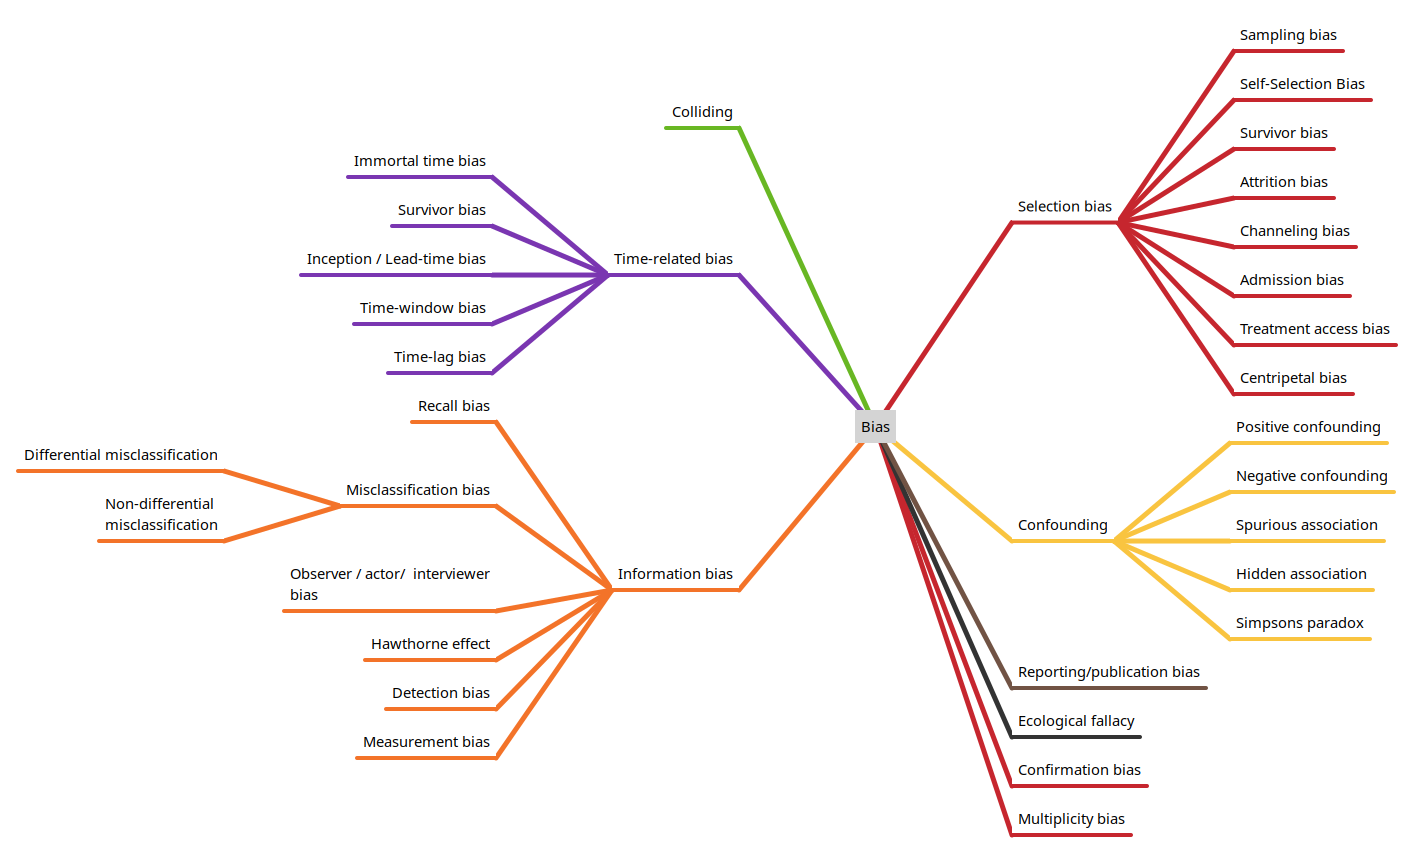
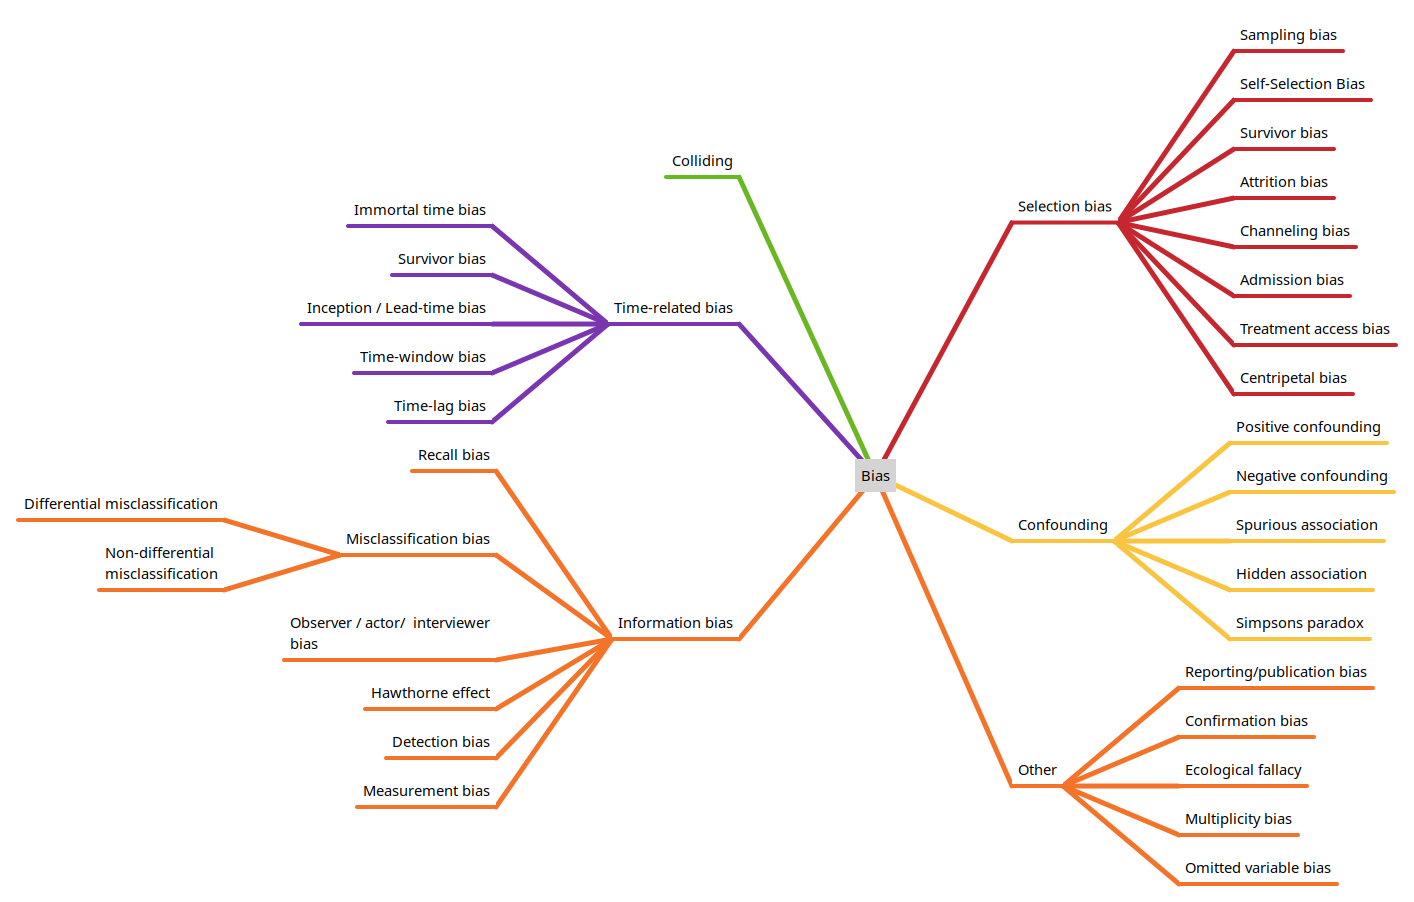
Update bias

Changed region(s): [[0.0, 0.0305, 0.9958, 1.0], [0.6535, 0.3658, 0.6846, 0.4267]]

diff --git a/misc/bias.md b/misc/bias.md
@@ -82,18 +82,7 @@ Time-related biases arise from improper handling of time in study design.
 
 * **Multiplicity bias (Multiple comparisons problem)**: Multiplicity bias, also known as the multiple comparisons problem, occurs when multiple statistical tests are performed simultaneously, leading to an increased risk of false positive results (Type I errors). This happens because each additional statistical test increases the likelihood of finding a significant result purely by chance.
 
-
-
-
-
-
-
-
-
-
-
-
-
+* **Omitted variable bias**: is a statistical error that occurs when a regression model fails to include one or more relevant variables that influence both the dependent and independent variables.
 
 
 
